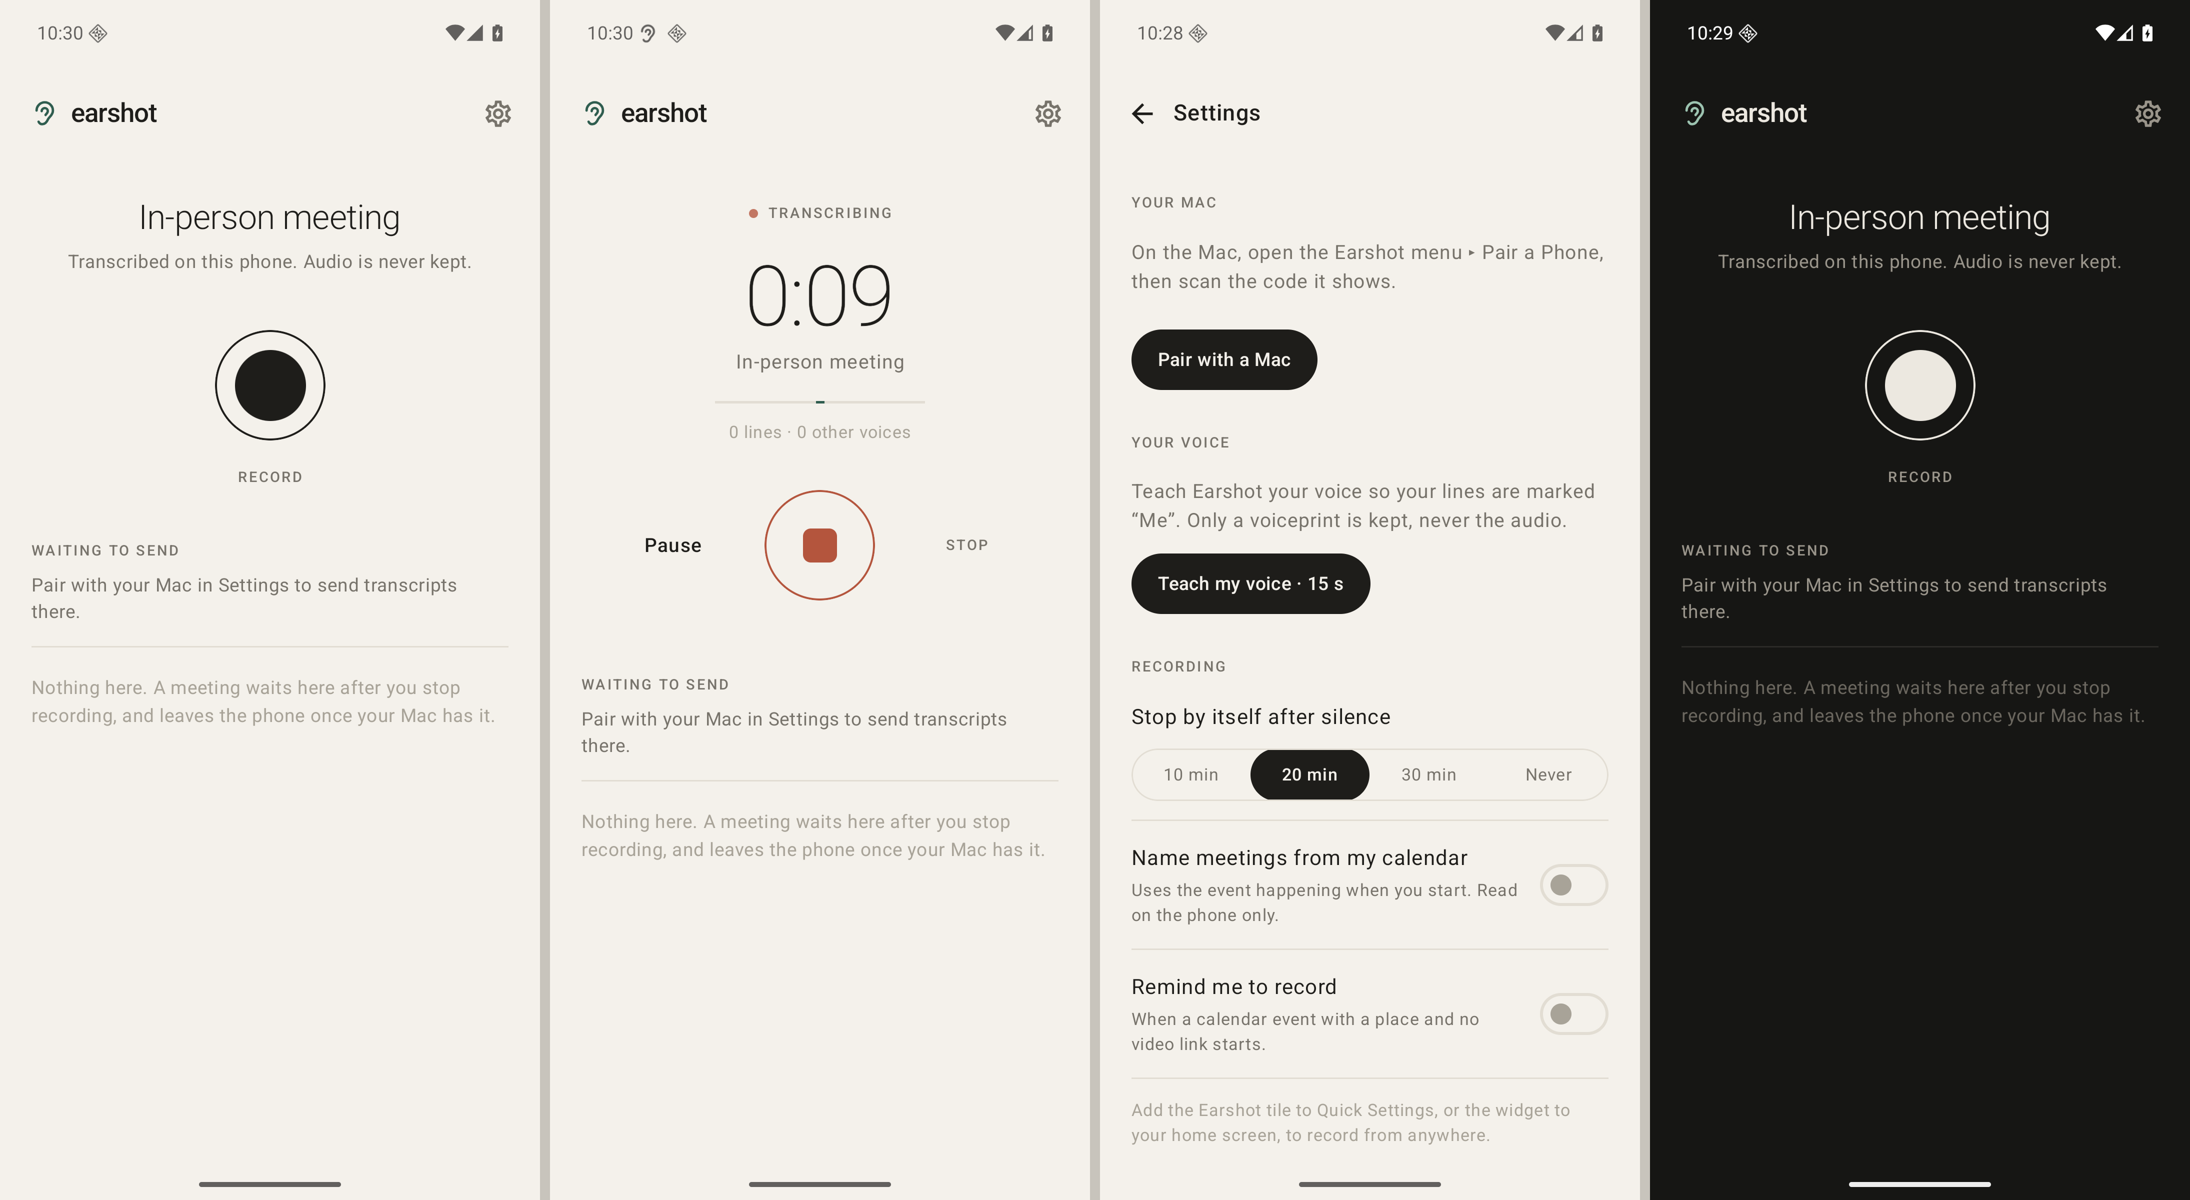
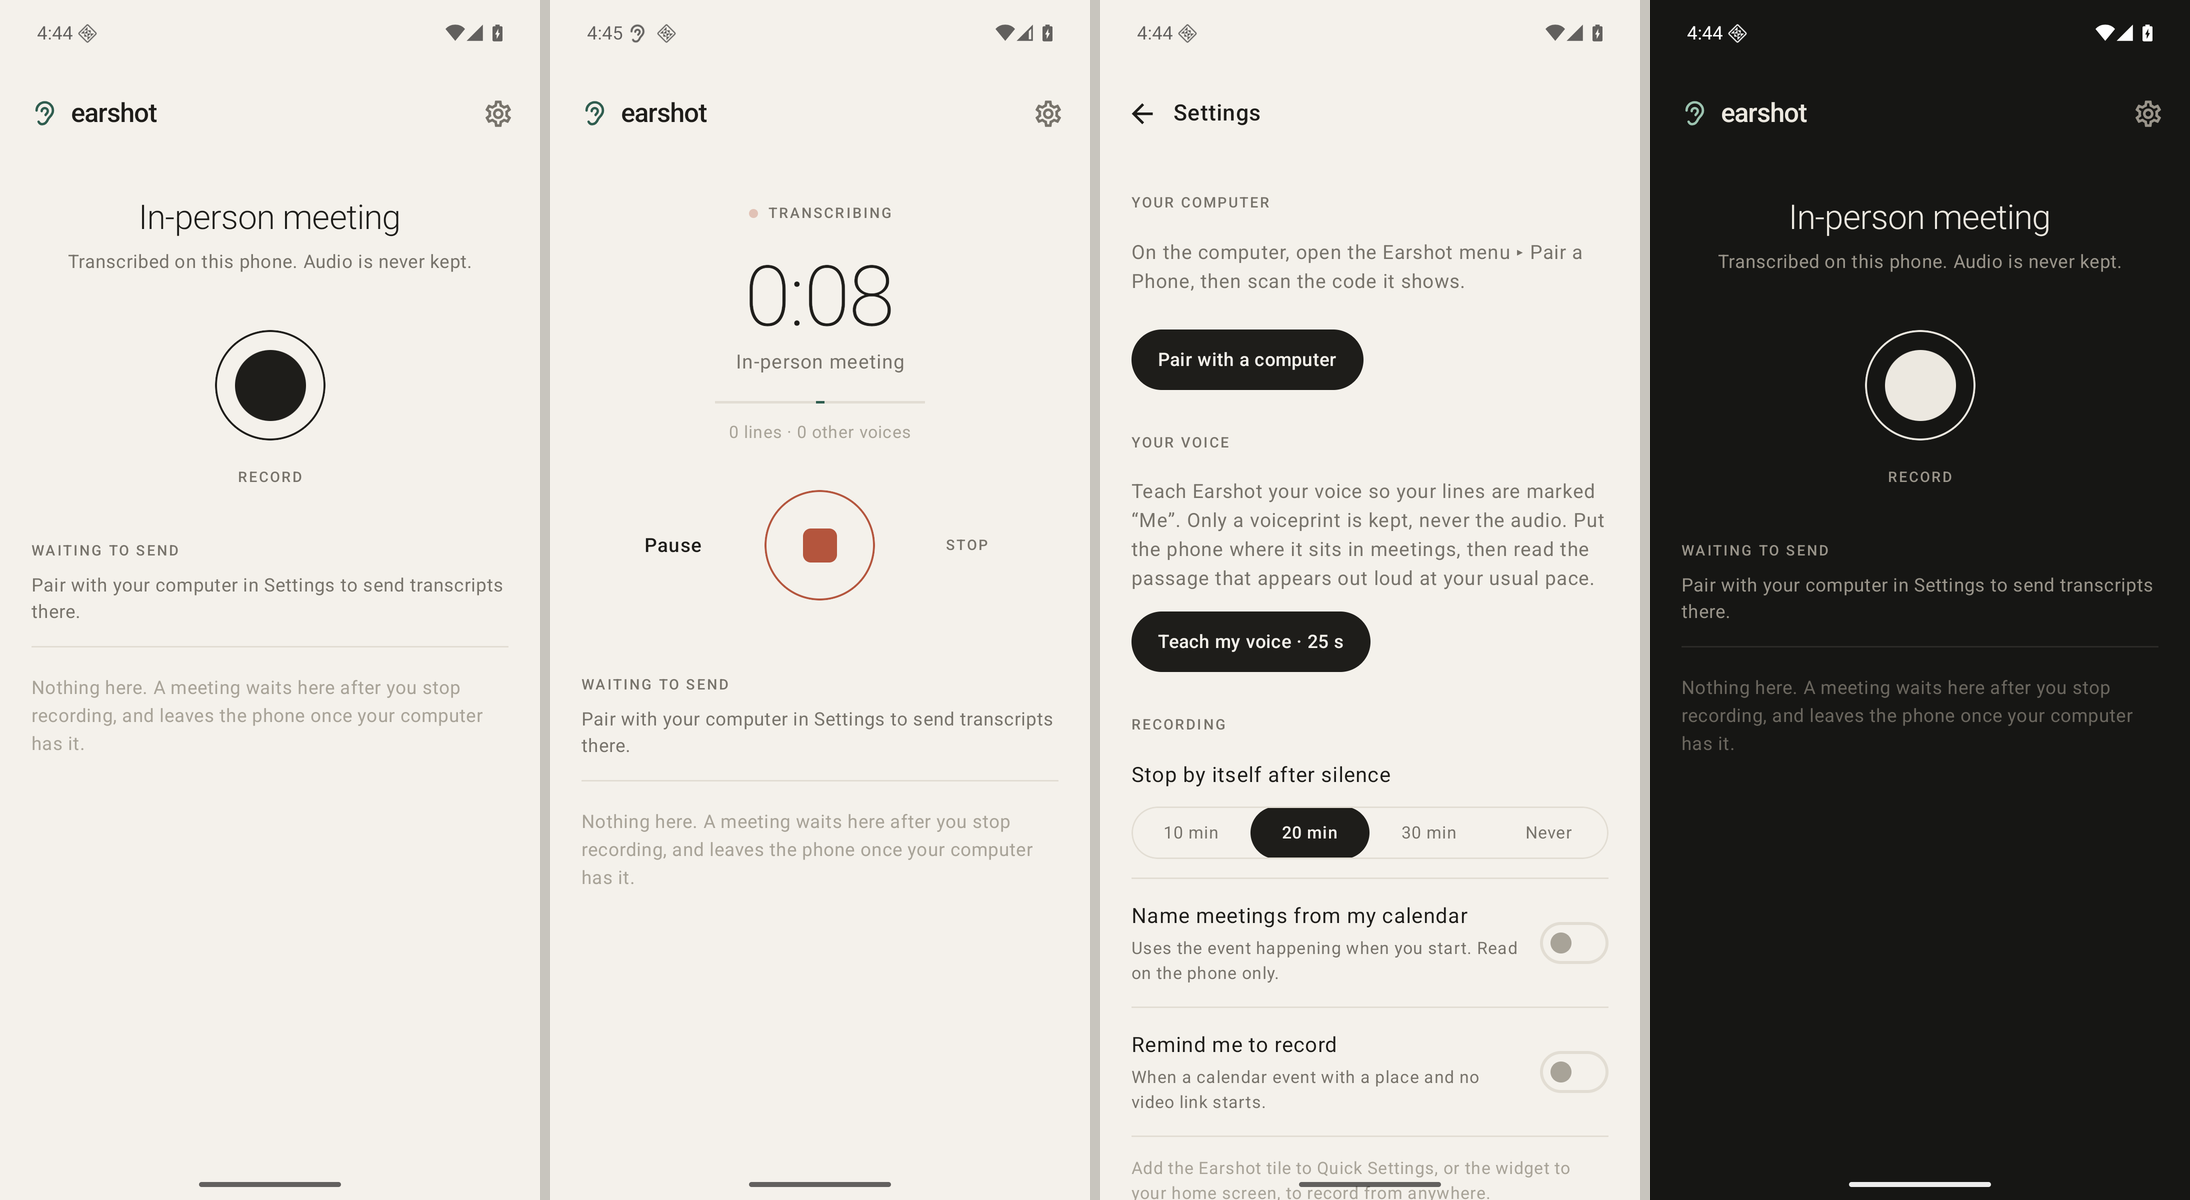
Earshot 0.7.1: Windows receives phone meetings and has Transcribe Calls From; new screenshots

diff --git a/README.md b/README.md
@@ -7,7 +7,7 @@
 <p align="center">
   <b>Every call, transcribed on your own computer, and ready for your AI agent.</b><br>
   Earshot sits in your menu bar (or system tray), notices when a call starts in any app, and writes a clean transcript: you on one side, everyone else on the other. Nothing leaves your machine.<br>
-  New in 0.7: a phone app for <b>in-person meetings</b>, transcribed on the phone and sent to your Mac over Bluetooth.
+  New in 0.7: a phone app for <b>in-person meetings</b>, transcribed on the phone and sent to your computer over Bluetooth. Since 0.7.1 that works on Windows too.
 </p>
 
 <p align="center">
@@ -85,8 +85,8 @@ The first time it runs, Earshot asks for:
 | 👥 | **Speaker separation** (Full) | NVIDIA's Sortformer model on Mac and a speaker-embedding model on Windows turn "Them" into Speaker 1, 2, 3…, entirely on your computer. Rename speakers from your agent. |
 | 🏷 | **Names and titles** (Mac) | With Accessibility on, Earshot takes the meeting topic, the participant list and who's talking from Zoom and Google Meet captions. The transcript text is still Earshot's own. |
 | 💬 | **Chat and shared links** | Zoom and Google Meet chat messages, and links shared in the call, are saved with the meeting. |
-| 🎚 | **Choose which calls** (Mac) | **Transcribe Calls From** in the menu has a switch for each app and web service, so you can leave out, say, FaceTime or Discord. |
-| 📱 | **In-person meetings** | The phone app transcribes meetings in the room and sends them to Earshot on your Mac, where they join your other meetings and your agent can read them. |
+| 🎚 | **Choose which calls** | **Transcribe Calls From** in the menu (the tray menu on Windows) has a switch for each app and web service, so you can leave out, say, FaceTime or Discord. |
+| 📱 | **In-person meetings** | The phone app transcribes meetings in the room and sends them to Earshot on your Mac or Windows PC, where they join your other meetings and your agent can read them. |
 | 🤖 | **MCP server** | 16+ tools for listing, reading, searching and controlling meetings. Works with any MCP client. |
 | ♻ | **Picks up where it left off** | If Earshot quits, crashes or the computer sleeps mid-call, the same meeting carries on instead of splitting into fragments. |
 | 🩺 | **Health checks** | Earshot watches for anything that would quietly stop it recording (a permission switched off, a full disk, a missing model) and shows a fix in its menu. |
@@ -107,7 +107,7 @@ Earshot on your computer hears calls. For meetings in a room, put your phone on 
 </p>
 
 - **Transcribed on the phone.** Speech recognition runs on the phone itself (NVIDIA Parakeet on Android, Apple's on-device recognizer on iPhone). The app has no internet access, and audio is never stored.
-- **Sent to your Mac over Bluetooth.** On the Mac, open the Earshot menu ▸ **Pair a Phone (In-Person Meetings)…** and scan the code it shows with the phone. After that, finished meetings go to the Mac by themselves when the two are near each other, or when you tap Send. The phone deletes its copy once the Mac confirms it has it. The transfer is encrypted with a key made at pairing.
+- **Sent to your computer over Bluetooth.** On a Mac, open the Earshot menu ▸ **Pair a Phone (In-Person Meetings)…**; on Windows, the same item is in Earshot's tray menu. Scan the code it shows with the phone (in the app's Settings, tap **Pair with a computer**). After that, finished meetings go to the computer by themselves when the two are near each other, or when you tap Send. The phone deletes its copy once the computer confirms it has it. The transfer is encrypted with a key made at pairing. A phone pairs with one computer at a time.
 - **Knows your voice.** In Settings, **Teach my voice** has you read a short passage aloud. Your lines are then marked "Me", and other people become Speaker 1, 2, 3…. Only a voiceprint is kept.
 - **Record from anywhere.** A one-tap record button for the home screen (Android and iPhone), a Quick Settings tile (Android), and Lock Screen and Control Center buttons (iPhone). The button turns green while recording and yellow while the transcript is saved.
 - **Handy extras.** Meetings can be named from your calendar (read on the phone only), recording keeps going with the screen off, and it stops by itself after a stretch of silence.
@@ -115,6 +115,12 @@ Earshot on your computer hears calls. For meetings in a room, put your phone on 
 <p align="center">
   <img src="docs/widget.png" width="460" alt="The record button: ready (white) and recording (green), on Android and iPhone">
 </p>
+
+<p align="center">
+  <img src="docs/windows-phone.png" width="420" alt="Pairing a phone on Windows: the Earshot on Your Phone window with its QR code">
+</p>
+
+**On Windows**, the PC's Bluetooth adapter has to accept connections from a phone. Most built-in adapters do; some USB dongles don't, and the pairing window says so if yours can't.
 
 **Android:** download the `.apk` from the latest release (see [Install](#install)). It's about 175 MB, almost all of it the speech models. A newer version installs over the old one and keeps your meetings and pairing.
 
@@ -178,7 +184,7 @@ Earshot doesn't summarize. That's your agent's job, with whichever model you cho
 - Speech recognition, speaker separation and mute detection all run on your computer.
 - Audio is transcribed as it arrives and then discarded. To keep recordings too, set `"saveAudio": true`. They're silent wherever you were muted.
 - The MCP server only listens on `127.0.0.1`, so other computers can't reach it. The Chrome extension can only talk to Earshot, and Earshot rejects requests from web pages.
-- The phone app has no internet permission at all. It talks only to your paired Mac, over Bluetooth, and its waiting meetings are encrypted on the phone.
+- The phone app has no internet permission at all. It talks only to your paired computer, over Bluetooth, and its waiting meetings are encrypted on the phone.
 - The only network requests are the speech-model download (Windows install) and a small check for new versions twice a day, which you can turn off.
 
 Everything is in a folder you own:
